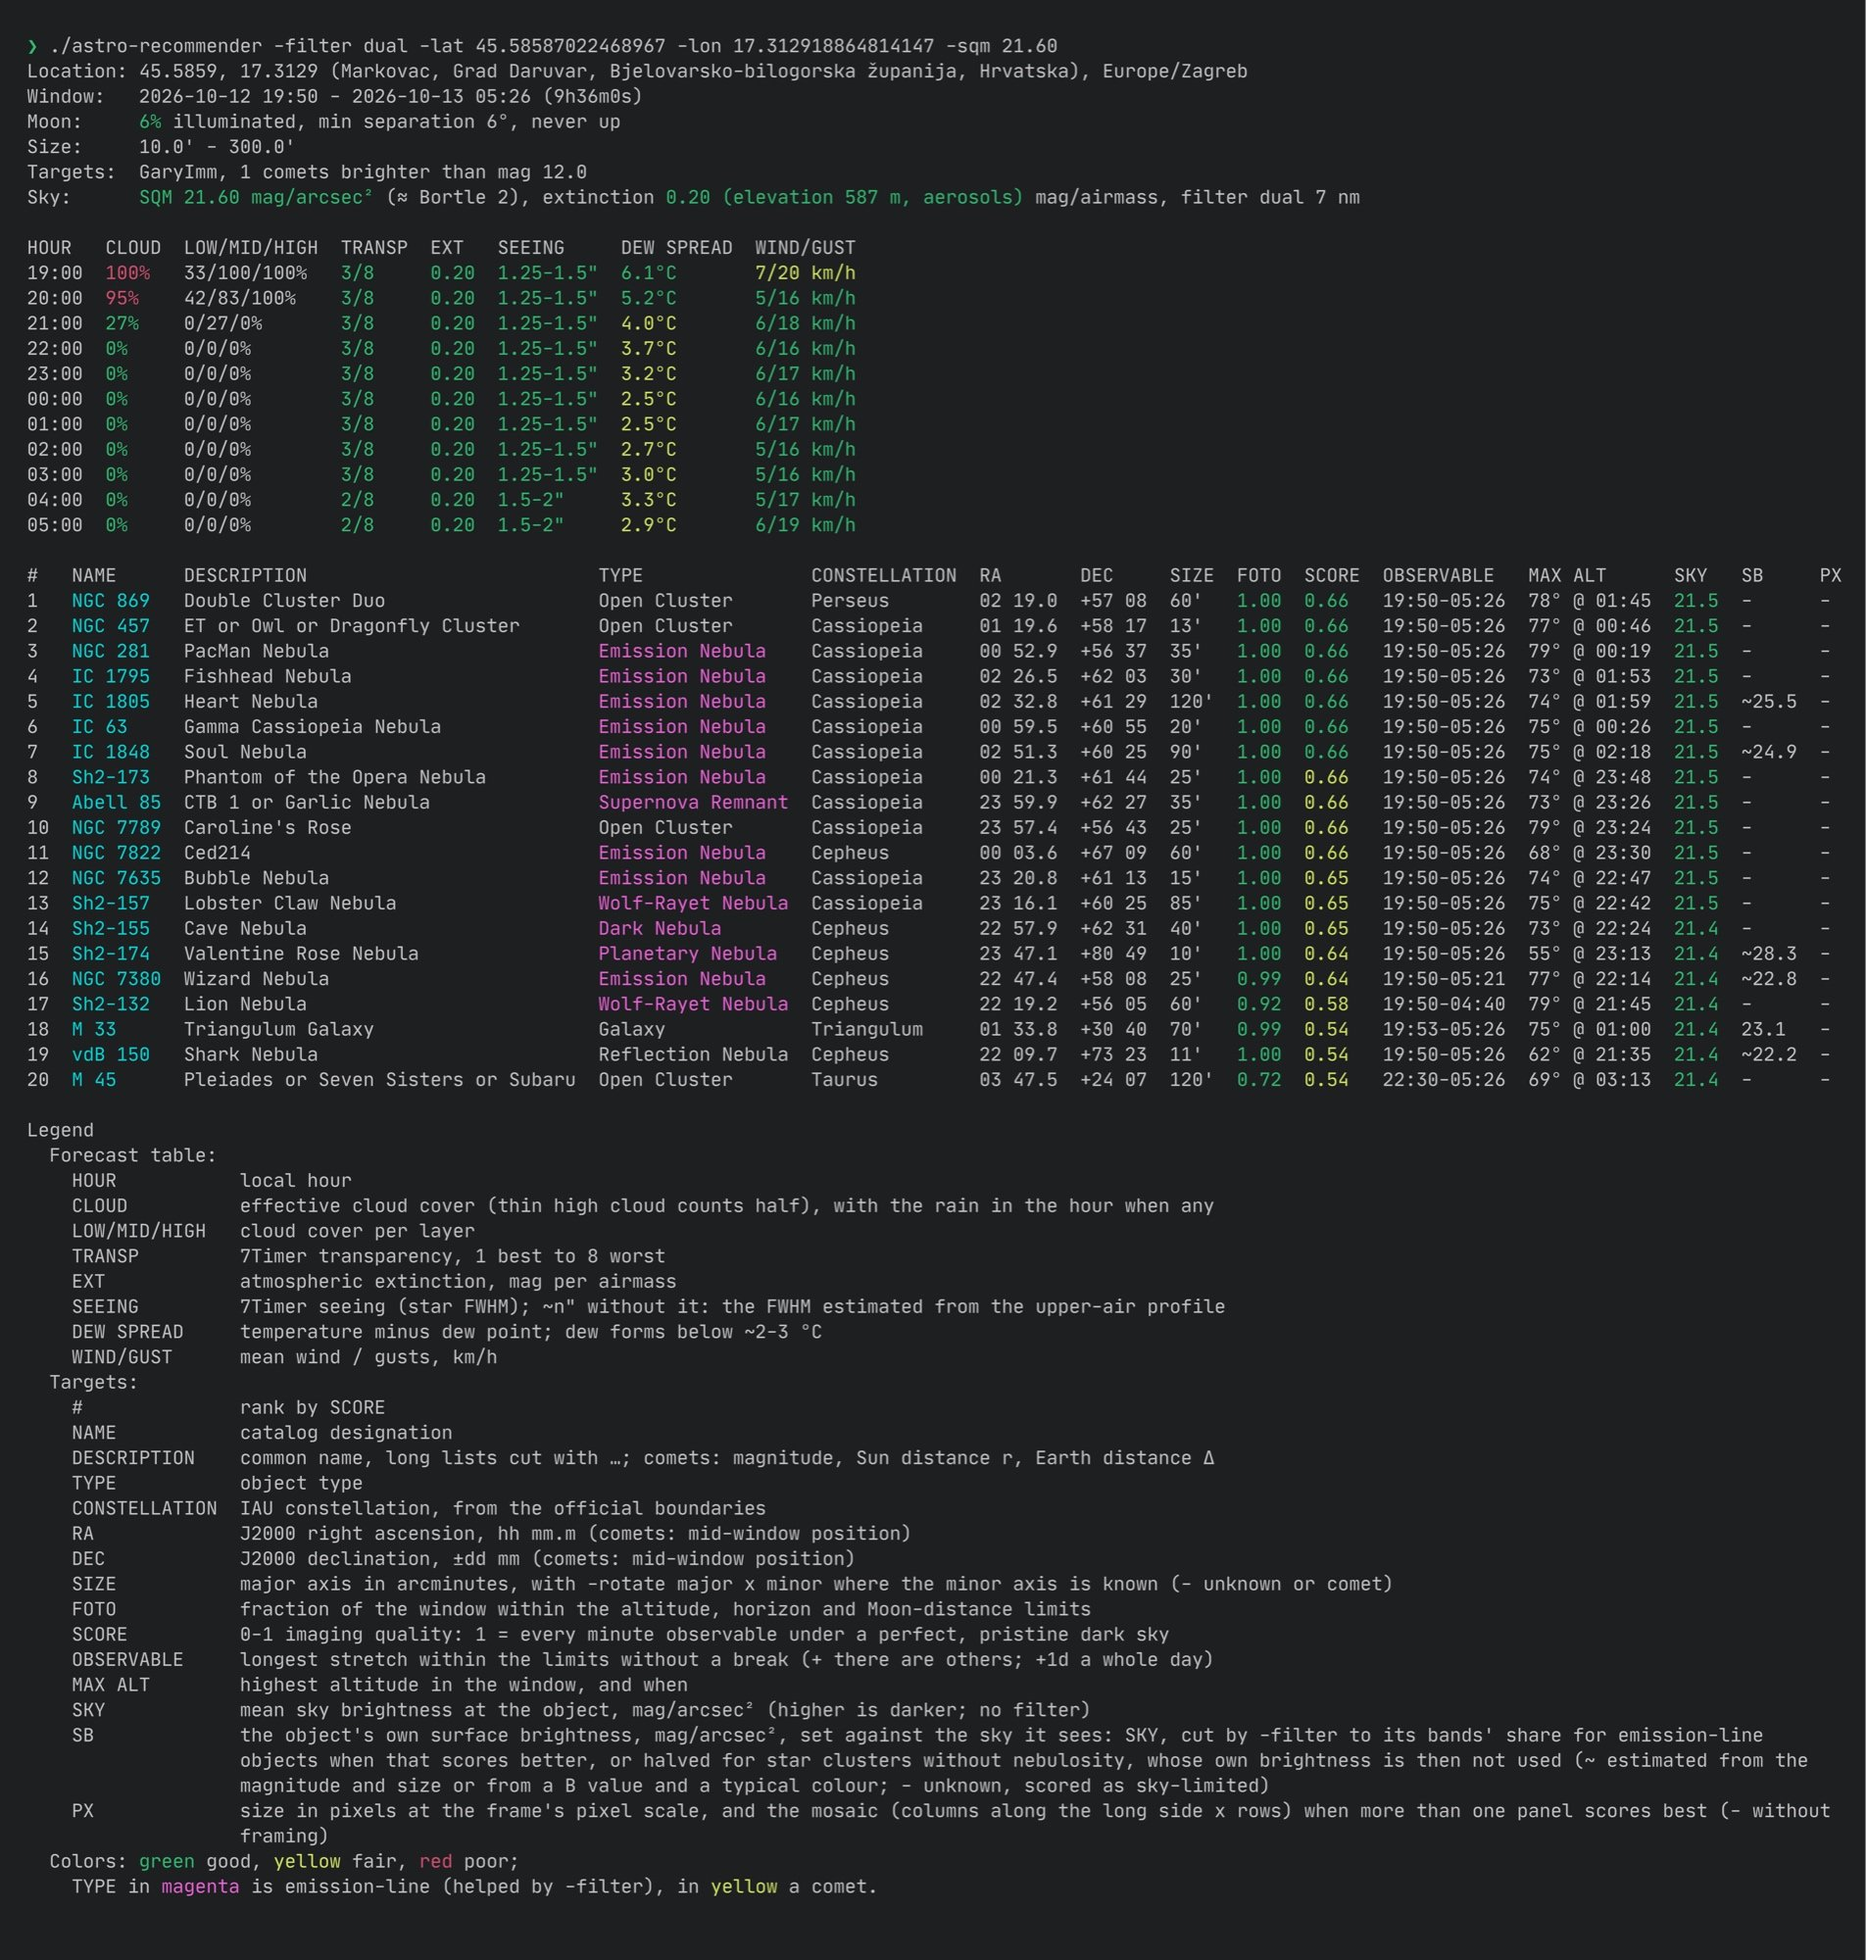
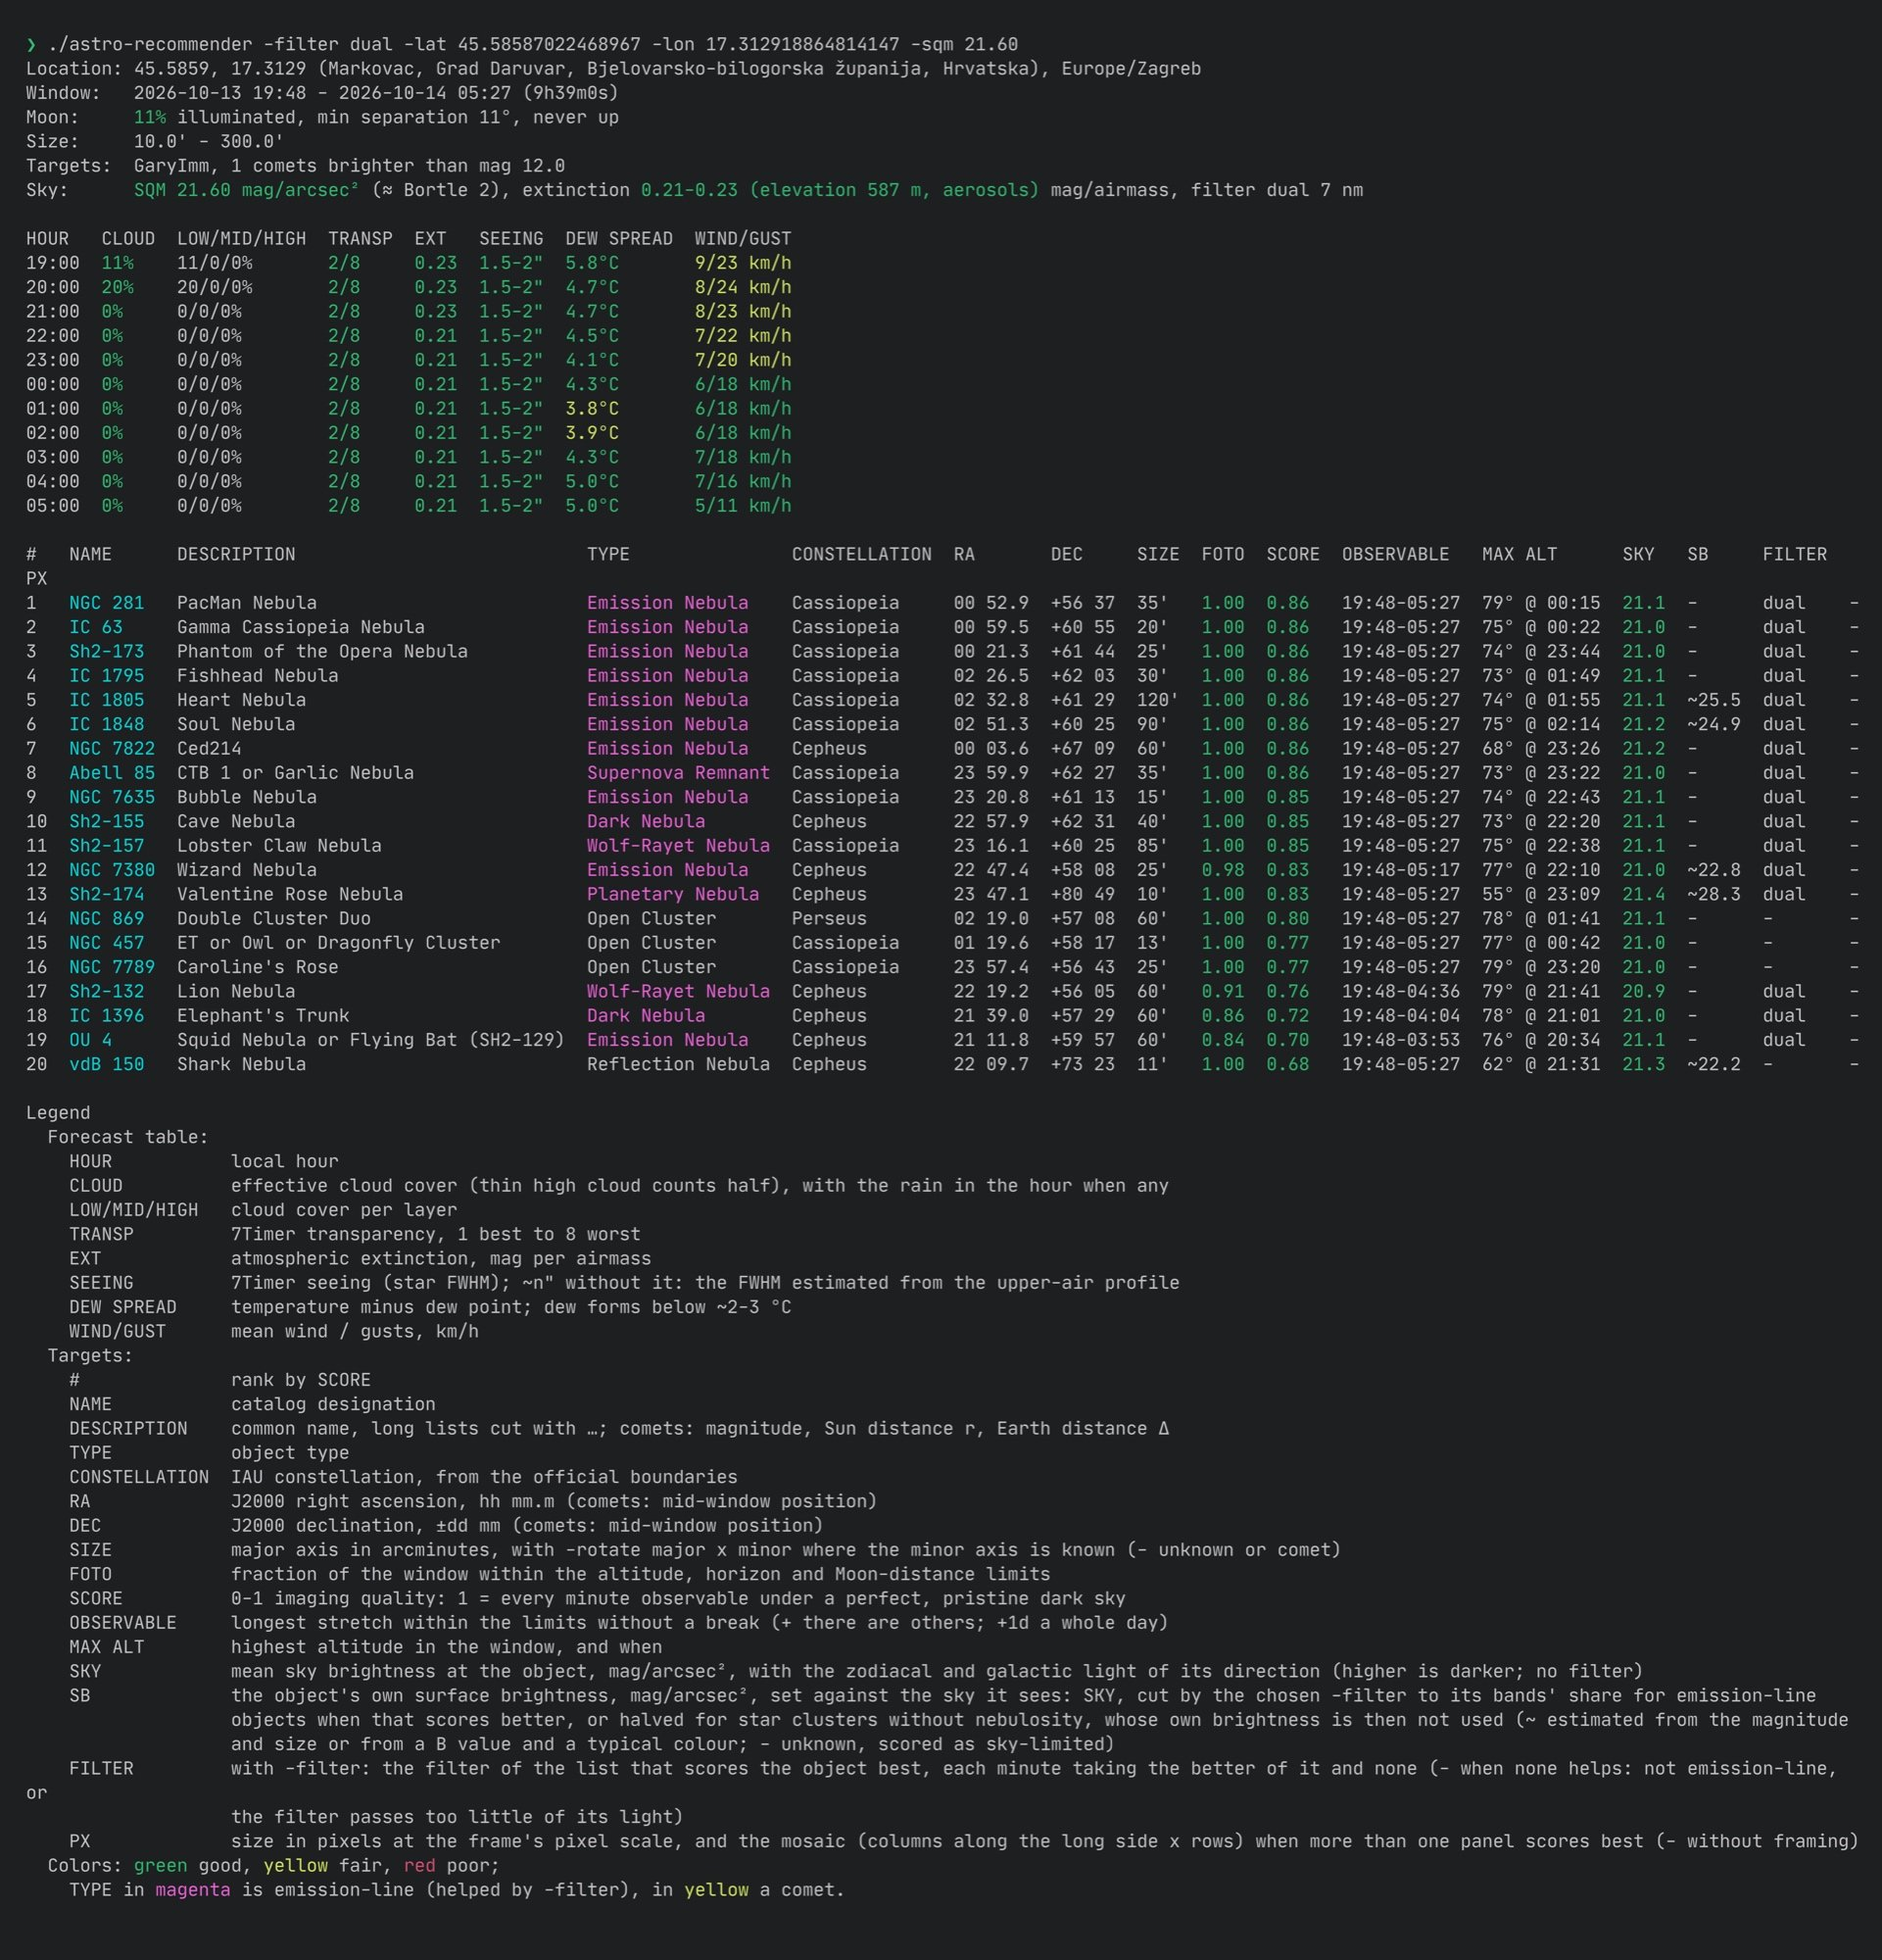
Refresh the README sample run and demo.jpg for the current models
The README transcript predated the FILTER column and today's galactic light and moonlight models; both it and demo.jpg are re-rendered from live runs.

diff --git a/README.md b/README.md
@@ -115,36 +115,36 @@ What does not:
 ## Usage
 
 ```sh
-astro-recommender -lat 45.815 -lon 15.982 -origin -filter dual -bortle 6 -n 5 -date 2026-10-07
+astro-recommender -lat 45.815 -lon 15.982 -origin -filter dual -bortle 6 -n 5 -date 2026-10-13
 ```
 
 ```
 Location: 45.8150, 15.9820 (Mjesni odbor Zrinjevac, Gradska četvrt Donji grad, Zagreb, Grad Zagreb, Hrvatska), Europe/Zagreb
-Window:   2026-10-07 20:04 - 2026-10-08 05:25 (9h21m0s)
-Moon:     8% illuminated, min separation 8°, rises 04:30
+Window:   2026-10-13 19:53 - 2026-10-14 05:33 (9h40m0s)
+Moon:     11% illuminated, min separation 11°, never up
 Size:     4.1' - 44.7'
 Targets:  GaryImm, 1 comets brighter than mag 12.0
 Frame:    1.32° x 0.75°, 1.23"/px (3856 x 2180 px)
-Sky:      Bortle 6 (zenith 18.80 mag/arcsec²), extinction 0.29-0.33 (elevation 126 m, aerosols) mag/airmass, filter dual 7 nm
+Sky:      Bortle 6 (zenith 18.80 mag/arcsec²), extinction 0.23-0.24 (elevation 126 m, aerosols) mag/airmass, filter dual 7 nm
 
-HOUR   CLOUD  LOW/MID/HIGH  TRANSP  EXT   SEEING     DEW SPREAD  WIND/GUST
-20:00  55%    8/40/38%      3/8     0.33  1.25-1.5"  5.8°C       4/12 km/h
-21:00  26%    0/0/51%       3/8     0.33  1.25-1.5"  5.3°C       6/13 km/h
-22:00  0%     0/0/0%        3/8     0.32  1.25-1.5"  3.9°C       6/12 km/h
-23:00  43%    0/42/4%       3/8     0.31  1.25-1.5"  3.2°C       5/10 km/h
-00:00  54%    0/53/5%       3/8     0.30  1.25-1.5"  3.1°C       5/10 km/h
-01:00  62%    0/61/6%       3/8     0.29  1.25-1.5"  3.4°C       4/9 km/h
-02:00  77%    0/74/21%      3/8     0.29  1.25-1.5"  3.6°C       4/7 km/h
-03:00  79%    8/71/39%      3/8     0.30  1.25-1.5"  4.4°C       3/6 km/h
-04:00  100%   23/100/11%    4/8     0.31  1.25-1.5"  5.1°C       4/8 km/h
-05:00  94%    47/89/7%      4/8     0.31  1.25-1.5"  3.8°C       1/8 km/h
+HOUR   CLOUD  LOW/MID/HIGH  TRANSP  EXT   SEEING  DEW SPREAD  WIND/GUST
+19:00  11%    0/11/0%       2/8     0.23  1.5-2"  6.4°C       4/9 km/h
+20:00  0%     0/0/0%        2/8     0.24  1.5-2"  5.0°C       4/10 km/h
+21:00  0%     0/0/0%        2/8     0.24  1.5-2"  4.2°C       5/10 km/h
+22:00  0%     0/0/0%        2/8     0.24  1.5-2"  4.2°C       5/11 km/h
+23:00  0%     0/0/0%        2/8     0.24  1.5-2"  4.8°C       5/11 km/h
+00:00  0%     0/0/0%        2/8     0.24  1.5-2"  5.1°C       5/9 km/h
+01:00  0%     0/0/0%        2/8     0.23  1.5-2"  4.8°C       4/8 km/h
+02:00  0%     0/0/0%        2/8     0.23  1.5-2"  4.3°C       4/8 km/h
+03:00  4%     0/4/0%        2/8     0.23  1.5-2"  4.5°C       4/7 km/h
+04:00  100%   0/100/1%      2/8     0.24  1.5-2"  5.1°C       3/6 km/h
+05:00  82%    0/82/0%       2/8     0.24  1.5-2"  4.1°C       2/5 km/h
 
-#  NAME      DESCRIPTION                  TYPE               CONSTELLATION  RA       DEC     SIZE  FOTO  SCORE  OBSERVABLE   MAX ALT      SKY   SB     PX
-1  NGC 7380  Wizard Nebula                Emission Nebula    Cepheus        22 47.4  +58 08  25'   1.00  0.18   20:04-05:25  78° @ 22:38  18.7  ~22.8  1218
-2  NGC 7635  Bubble Nebula                Emission Nebula    Cassiopeia     23 20.8  +61 13  15'   1.00  0.16   20:04-05:25  74° @ 23:12  18.7  -      731
-3  Abell 85  CTB 1 or Garlic Nebula       Supernova Remnant  Cassiopeia     23 59.9  +62 27  35'   1.00  0.15   20:04-05:25  73° @ 23:51  18.7  -      1705
-4  Sh2-173   Phantom of the Opera Nebula  Emission Nebula    Cassiopeia     00 21.3  +61 44  25'   1.00  0.15   20:04-05:25  74° @ 00:13  18.7  -      1218
-5  NGC 281   PacMan Nebula                Emission Nebula    Cassiopeia     00 52.9  +56 37  35'   1.00  0.15   20:04-05:25  79° @ 00:44  18.7  -      1705
+#  NAME      DESCRIPTION                  TYPE             CONSTELLATION  RA       DEC     SIZE  FOTO  SCORE  OBSERVABLE   MAX ALT      SKY   SB     FILTER  PX
+1  NGC 7380  Wizard Nebula                Emission Nebula  Cepheus        22 47.4  +58 08  25'   0.98  0.43   19:53-05:24  78° @ 22:15  18.6  ~22.8  dual    1218
+2  NGC 281   PacMan Nebula                Emission Nebula  Cassiopeia     00 52.9  +56 37  35'   1.00  0.38   19:53-05:33  79° @ 00:21  18.7  -      dual    1705
+3  IC 63     Gamma Cassiopeia Nebula      Emission Nebula  Cassiopeia     00 59.5  +60 55  20'   1.00  0.38   19:53-05:33  75° @ 00:27  18.7  -      dual    974
+4  Sh2-173   Phantom of the Opera Nebula  Emission Nebula  Cassiopeia     00 21.3  +61 44  25'   1.00  0.38   19:53-05:33  74° @ 23:49  18.6  -      dual    1218
 ```
 
 The output ends with a legend explaining every column of the tables shown and the colours. In short:
